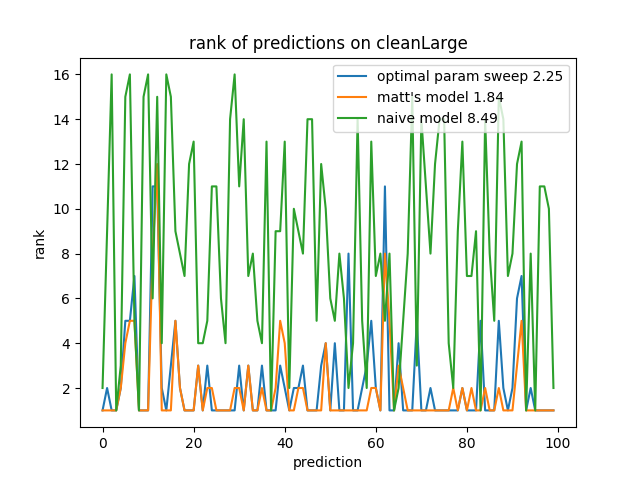
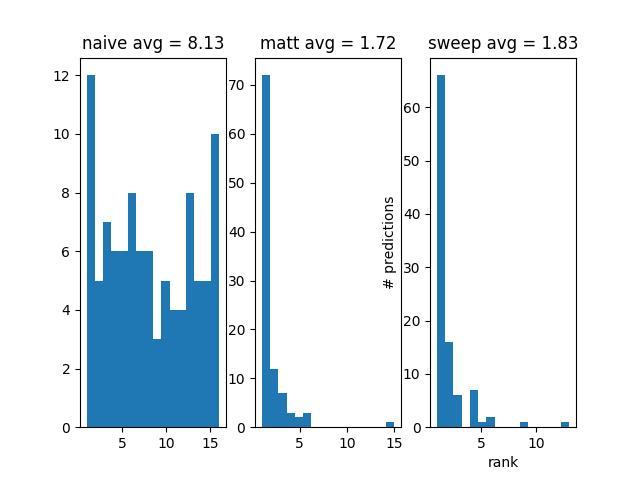
add histo for fig 4

Changed region(s): [[0.0312, 0.0625, 0.9062, 0.9688], [0.75, 0.9375, 0.8125, 0.9688]]

diff --git a/ML_Algs/plot_ranks_.py b/ML_Algs/plot_ranks_.py
@@ -92,9 +92,8 @@ net = ANN(trained_model=MODEL_NAME)
 if(MODEL_NAME_2 != ''):
 	net2 = ANN(trained_model=MODEL_NAME_2)
 
-samples = 0
 # The number of test samples to check
-samples = 100
+samples = 1000
 
 print('\n')
 
@@ -129,13 +128,15 @@ matt_avg = matt_avg / samples
 naive_avg = naive_avg / samples
 
 #print average per prediction
-plt.plot(val_scores, label = "optimal param sweep {}".format(sweep_avg))
-if MODEL_NAME_2 != '':
-	plt.plot(val_scores2, label = "matt's model {}".format(matt_avg))
-plt.plot(naive, label='naive model {}'.format(naive_avg))
-plt.xlabel("prediction")
-plt.ylabel("rank")
-plt.title("rank of predictions on {}".format(DATA_SET))
-plt.legend()
-
+plt.subplot(1, 3, 1)
+plt.hist(naive, 16)
+plt.title('naive avg = {}'.format(naive_avg))
+plt.subplot(1, 3, 2)
+plt.hist(val_scores2, 16)
+plt.title('matt avg = {}'.format(matt_avg))
+plt.subplot(1, 3, 3)
+plt.hist(val_scores, 16)
+plt.title('sweep avg = {}'.format(sweep_avg))
+plt.xlabel('rank')
+plt.ylabel('# predictions')
 plt.show()
